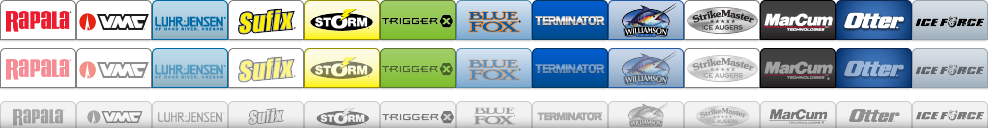
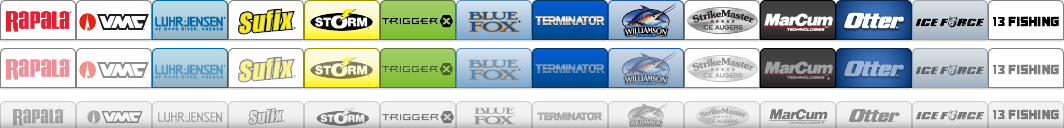
defect/RPL-651 Adding New Brand to Rapala Canada

diff --git a/site_rapalaCA/cartridge/scss/default/global/header/_nav.scss b/site_rapalaCA/cartridge/scss/default/global/header/_nav.scss
@@ -675,8 +675,7 @@
                                         background-position: 0 -48px;
                                     }
                                     &.fishing {
-                                        background-position: -912px -48px;
-                                        width: 78px !important;
+                                        background-position: -988px -48px;
                                     }
                                     &.vmc {
                                         background-position: -76px -48px;
@@ -726,8 +725,7 @@
                                 background-position: 0 -101px;
                             }
                             &.fishing {
-                                background-position: -912px -101px;
-                                width: 78px !important;
+                                background-position: -988px -101px;
                             }
                             &.vmc {
                                 background-position: -76px -101px;
@@ -778,8 +776,7 @@
                                     background-position: 0 0;
                                 }
                                 &.fishing {
-                                    background-position: -912px 0;
-                                    width: 78px !important;
+                                    background-position: -988px 0;
                                 }
                                 &.vmc {
                                     background-position: -76px 0;

diff --git a/app_rapala_core/cartridge/scss/default/checkout/_checkout.scss b/app_rapala_core/cartridge/scss/default/checkout/_checkout.scss
@@ -1641,13 +1641,13 @@ body {
                 }
             }
             &.fishing {
-                background-position: -993px -39px;
-                width: 83px;
+                background-position: -1217px -48px;
+                width: 76px;
                 &.fishing-active {
-                    background-position: -993px 0;
-                    width: 83px;
+                    background-position: -1217px -10px;
+                    width: 76px;
                     &:hover {
-                        background-position: -993px 0;
+                        background-position: -1217px -10px;
                         width: 83px;
                     }
                 }

diff --git a/site_rapalaCA/cartridge/scss/default/global/_footer.scss b/site_rapalaCA/cartridge/scss/default/global/_footer.scss
@@ -194,10 +194,10 @@ footer {
                 }
             }
             &.fishing {
-                background-position: -582px 0;
-                width: 87px;
+                background-position: -672px 0;
+                width: 76px;
                 &:hover {
-                    background-position: -582px -31px;
+                    background-position: -672px -31px;
                 }
             }
         }
